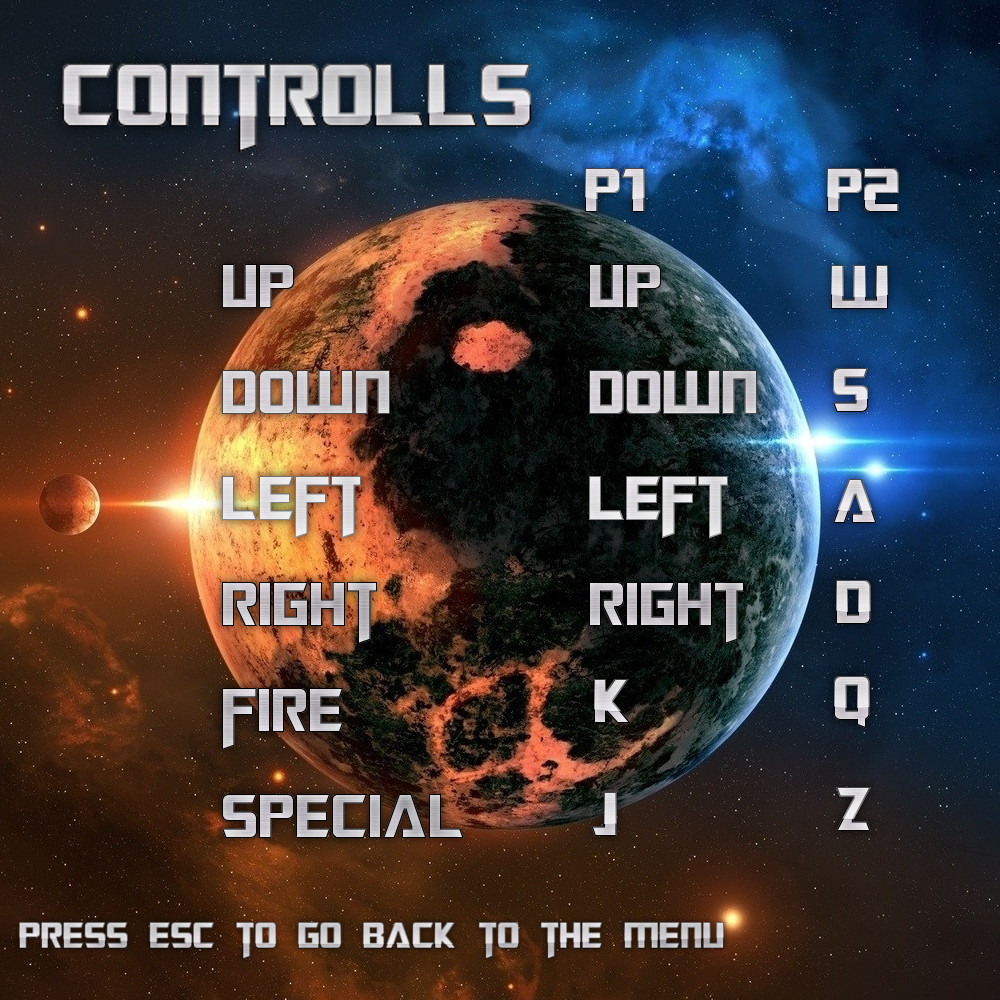
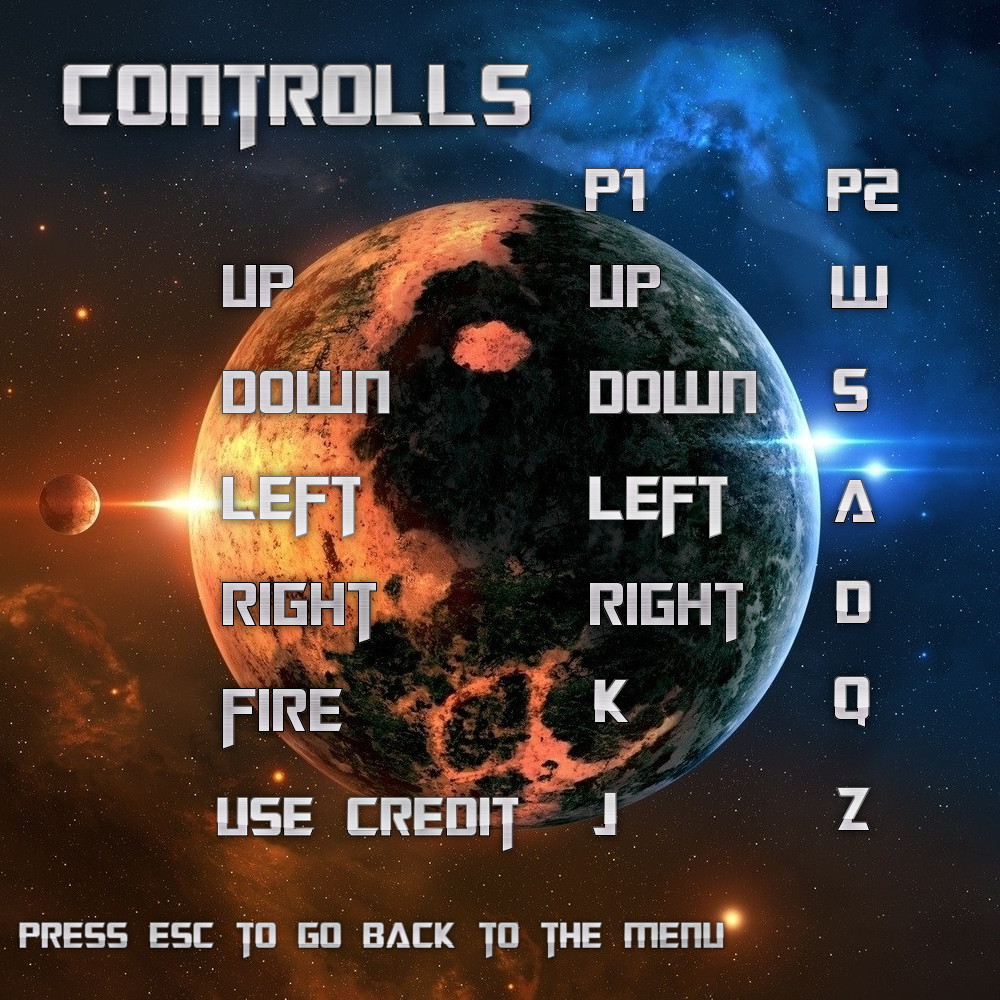
Graphics Changes & Changed Fire butto to USE_CREDIT

Changed region(s): [[0.217, 0.775, 0.527, 0.868]]

diff --git a/src/com/sagi/dayan/Games/Stage/Level.java b/src/com/sagi/dayan/Games/Stage/Level.java
@@ -204,12 +204,14 @@ public abstract class Level extends Scene {
 				 p1Missiles.add(new Missile(players.get(0).getCenterX() - 15, (int)players.get(0).getLocY(), players.get(0).getAcceleration() + 3, "P1Laser.png", 4));
 				 players.get(0).updateFireTime();
 			 }
-			 if(engine.getP1Health() <= 0 && engine.getCredits() > 0) {
-				 engine.revivePlayer(0);
-				 players.get(0).resetPlayer();
-
-			 }
 		 }
+        if(keys.get(engine.getP1Controlles()[GameEngine.USE_CREDIT]) && engine.getP1Health() <= 0 ){
+            if(engine.getCredits() > 0) {
+                engine.revivePlayer(0);
+                players.get(0).resetPlayer();
+
+            }
+        }
 
 		 /**
 		  * Player 2 Movement
@@ -238,12 +240,14 @@ public abstract class Level extends Scene {
 					 p2Missiles.add(new Missile(players.get(1).getCenterX() - 15, (int)players.get(1).getLocY(), players.get(1).getAcceleration() + 3, "P1Laser.png", 4));
 					 players.get(1).updateFireTime();
 				 }
-				 if(engine.getP2Health() <= 0 && engine.getCredits() > 0) {
-					 engine.revivePlayer(1);
-					 players.get(0).resetPlayer();
-
-				 }
 			 }
+             if(keys.get(engine.getP2Controlles()[GameEngine.USE_CREDIT]) && engine.getP2Health() <= 0){
+                 if(engine.getCredits() > 0) {
+                     engine.revivePlayer(1);
+                     players.get(1).resetPlayer();
+
+                 }
+             }
 
 		 }
 	}

diff --git a/src/com/sagi/dayan/Games/Engine/GameEngine.java b/src/com/sagi/dayan/Games/Engine/GameEngine.java
@@ -34,7 +34,7 @@ public class GameEngine {
     private Scene scene;
     private int p1CreditTime, p2CreditTime, creditTickTime = 1;
     public static final int PLAYER_WIDTH = 120, PLAYER_HEIGHT = 120;
-    public static final int UP=0,RIGHT=1,DOWN=2, LEFT=3, FIRE=4, SPECIAL=5;
+    public static final int UP=0,RIGHT=1,DOWN=2, LEFT=3, FIRE=4, USE_CREDIT=5;
     public int p1HighScore, p2HighScore;
 
     private int[] p1Controlles = {KeyEvent.VK_UP, KeyEvent.VK_RIGHT, KeyEvent.VK_DOWN, KeyEvent.VK_LEFT, KeyEvent.VK_K, KeyEvent.VK_J};
